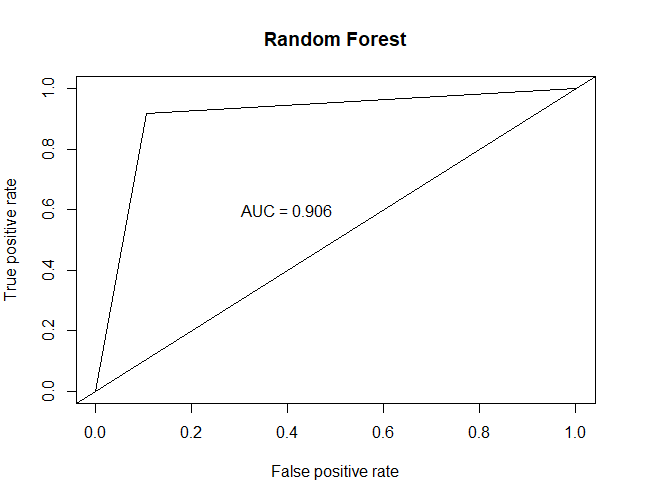
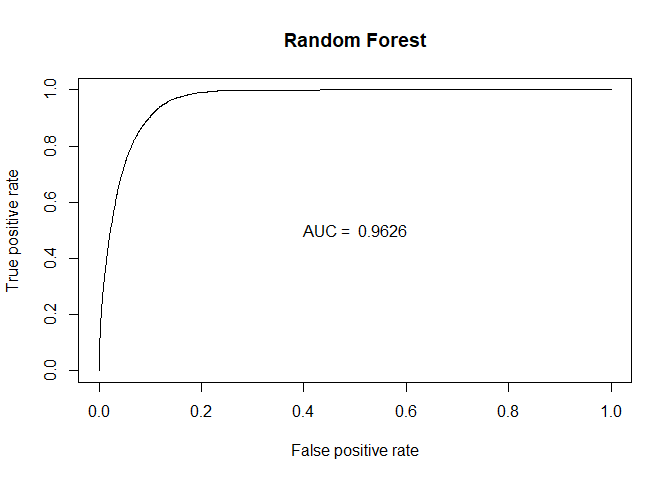
add probablities to roc function

diff --git a/src/objective_two/chance/randomforest.md b/src/objective_two/chance/randomforest.md
@@ -25,14 +25,14 @@ Chance Robinson
 library(tidyverse)
 ```
 
-    ## -- Attaching packages -------------------------------------------------------------------------------------------------------- tidyverse 1.2.1 --
+    ## -- Attaching packages --------------------------------------------------------------------------------------------------------------------- tidyverse 1.2.1 --
 
     ## v ggplot2 3.2.1     v purrr   0.3.3
     ## v tibble  2.1.3     v dplyr   0.8.3
     ## v tidyr   1.0.0     v stringr 1.4.0
     ## v readr   1.3.1     v forcats 0.4.0
 
-    ## -- Conflicts ----------------------------------------------------------------------------------------------------------- tidyverse_conflicts() --
+    ## -- Conflicts ------------------------------------------------------------------------------------------------------------------------ tidyverse_conflicts() --
     ## x dplyr::filter() masks stats::filter()
     ## x dplyr::lag()    masks stats::lag()
 
@@ -428,55 +428,39 @@ confusionMatrix(data=p2,
 ``` r
 # ?pROC
 
-auc <- roc(as.integer(test$top.10), as.integer(p2))
+# auc <- roc(as.integer(test$top.10), as.integer(p2))
+# # print(auc)
+# 
+# # plot(auc, ylim=c(0,1), print.thres=TRUE, main=paste('AUC of Test Set:', round(auc$auc[[1]],2)))
+# # abline(h=1,col='green',lwd=2)
+# # abline(h=0,col='red',lwd=2)
+# 
+# g <- ggroc(auc, alpha = 0.5, colour = "red", linetype = 2, size = 2) +
+#   theme_minimal() +
+#   ggtitle(paste('AUC of Test Set:', round(auc$auc[[1]],2))) +
+#   geom_segment(aes(x = 0, xend = 1, y = 0, yend = 1), color="darkgrey", linetype="dashed")
+
+# 
+# plot(g)
+# 
+# 
+# plotRoc <- function(preds, truth) {
+#   pred <- prediction(preds, truth)
+#   roc.perf = performance(pred, measure = "tpr", x.measure = "fpr")
+#   auc.train <- performance(pred, measure = "auc")
+#   auc.train <- auc.train@y.values
+#   
+#   #Plot ROC
+#   par(mar=c(4,4,4,4))
+#   plot(roc.perf,main="Random Forest")
+#   abline(a=0, b= 1) #Ref line indicating poor performance
+#   text(x = .40, y = .6,paste("AUC = ", round(auc.train[[1]],3), sep = ""))
+#   table(test$top.10, useNA = "ifany")
+# }
+# 
+# 
+# plotRoc(as.integer(p2),as.integer(test$top.10))
 ```
-
-    ## Setting levels: control = 1, case = 2
-
-    ## Setting direction: controls < cases
-
-``` r
-# print(auc)
-
-# plot(auc, ylim=c(0,1), print.thres=TRUE, main=paste('AUC of Test Set:', round(auc$auc[[1]],2)))
-# abline(h=1,col='green',lwd=2)
-# abline(h=0,col='red',lwd=2)
-
-g <- ggroc(auc, alpha = 0.5, colour = "red", linetype = 2, size = 2) +
-  theme_minimal() + 
-  ggtitle(paste('AUC of Test Set:', round(auc$auc[[1]],2))) + 
-  geom_segment(aes(x = 0, xend = 1, y = 0, yend = 1), color="darkgrey", linetype="dashed")
-  
-
-plot(g)
-```
-
-![](randomforest_files/figure-gfm/rf-auc-plot-test-1.png)<!-- -->
-
-``` r
-plotRoc <- function(preds, truth) {
-  pred <- prediction(preds, truth)
-  roc.perf = performance(pred, measure = "tpr", x.measure = "fpr")
-  auc.train <- performance(pred, measure = "auc")
-  auc.train <- auc.train@y.values
-  
-  #Plot ROC
-  par(mar=c(4,4,4,4))
-  plot(roc.perf,main="Random Forest")
-  abline(a=0, b= 1) #Ref line indicating poor performance
-  text(x = .40, y = .6,paste("AUC = ", round(auc.train[[1]],3), sep = ""))
-  table(test$top.10, useNA = "ifany")
-}
-
-
-plotRoc(as.integer(p2),as.integer(test$top.10))
-```
-
-![](randomforest_files/figure-gfm/rf-auc-plot-test-2.png)<!-- -->
-
-    ## 
-    ##    No   Yes 
-    ## 48906  5677
 
 ``` r
 set.seed(1234)
@@ -523,7 +507,7 @@ print(model.rf.train)
 
 ``` r
 p1 <- predict(model.rf.train, train)
-p2 <- predict(model.rf.train, test)
+p2 <- predict(model.rf.train, test)  #type = "prob"
 
 
 print(model.rf.train)
@@ -643,29 +627,23 @@ confusionMatrix(data=p2,
     ## 
 
 ``` r
-plotRoc <- function(preds, truth) {
-  pred <- prediction(preds, truth)
-  roc.perf = performance(pred, measure = "tpr", x.measure = "fpr")
-  auc.train <- performance(pred, measure = "auc")
-  auc.train <- auc.train@y.values
-  #Plot ROC
-  par(mar=c(4,4,4,4))
-  plot(roc.perf,main="Random Forest")
-  abline(a=0, b= 1) #Ref line indicating poor performance
-  text(x = .40, y = .6,paste("AUC = ", round(auc.train[[1]],3), sep = ""))
-  table(test$top.10, useNA = "ifany")
-}
+p3 <- predict(model.rf.train, test, type = "prob")  #type = "prob"
+# p3
+
+predictions <- as.vector(p3[,2])
+
+pred <- prediction(predictions, test$top.10)
+
+perf_AUC <- performance(pred,"auc") #Calculate the AUC value
+AUC=perf_AUC@y.values[[1]]
 
 
-
-plotRoc(as.integer(p2),as.integer(test$top.10))
+perf_ROC=performance(pred,"tpr","fpr") #plot the actual ROC curve
+plot(perf_ROC, main="Random Forest")
+text(0.5,0.5,paste("AUC = ",format(AUC, digits=4, scientific=FALSE)))
 ```
 
 ![](randomforest_files/figure-gfm/pre-train-test-split-2.png)<!-- -->
-
-    ## 
-    ##    No   Yes 
-    ## 48879  5703
 
 ``` r
 #Create control function for training with 10 folds and keep 3 folds for training. search method is grid.
